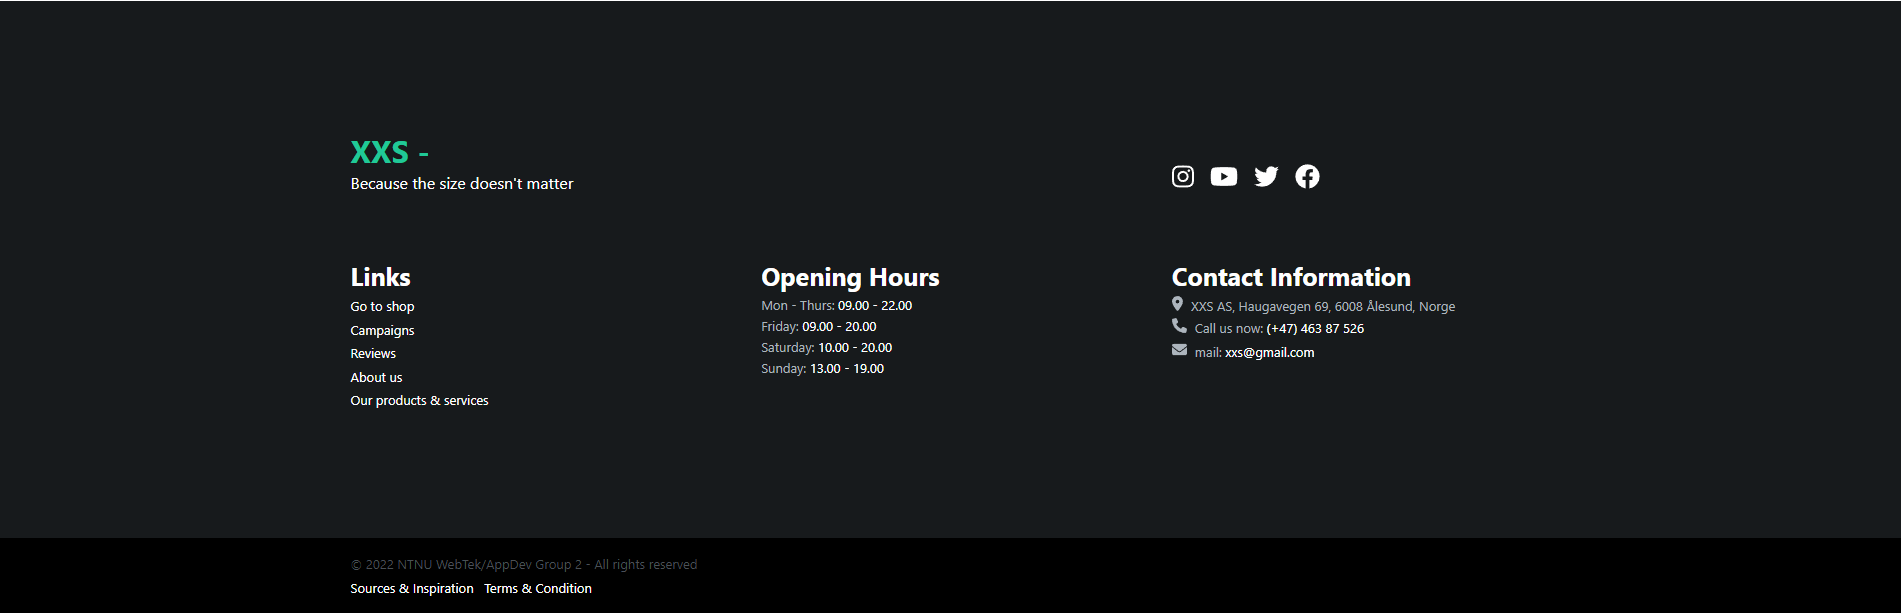
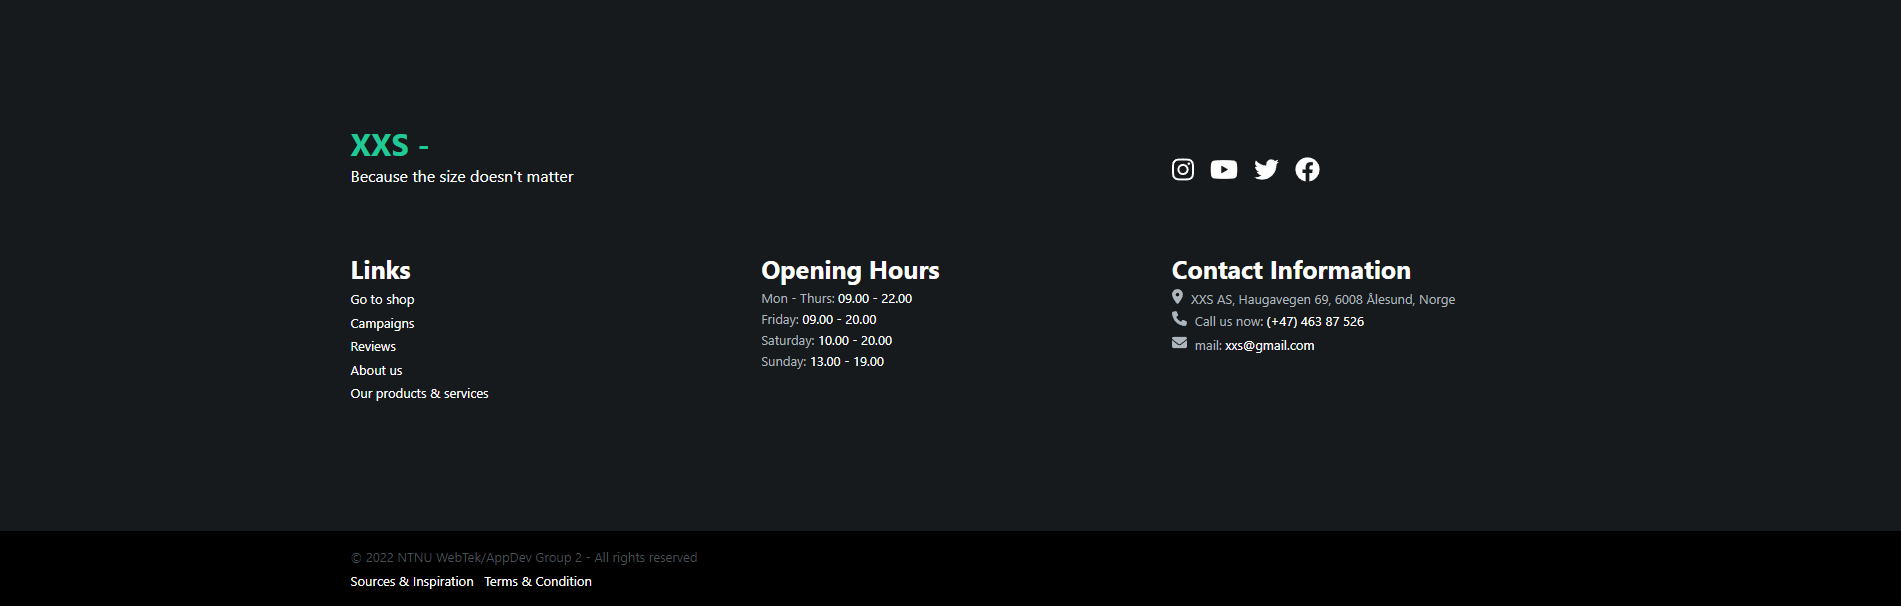
Added information and images to projects

diff --git a/portfolio/src/store/projects.ts b/portfolio/src/store/projects.ts
@@ -5,40 +5,40 @@ export const projects: Project[] = [
 		id: 1,
 		title: 'XXS - Hiking Equipments',
 		thumbnail: {
-			path: '/img/projects/xxs/xxs-thumbnail.png',
+			path: '/img/projects/xxs/xxs-thumbnail-compressed.jpg',
 			alt: 'XXS front page'
 		},
 		images: [
 			{
-				path: '/img/projects/xxs/home-page-hero.png',
+				path: '/img/projects/xxs/home-page-hero-compressed.jpg',
 				alt: 'XXS landing page'
 			},
 			{
-				path: '/img/projects/xxs/home-page-about.PNG',
+				path: '/img/projects/xxs/home-page-about-compressed.jpg',
 				alt: 'About xxs'
 			},
 			{
-				path: '/img/projects/xxs/home-page-reviews.PNG',
+				path: '/img/projects/xxs/home-page-reviews-compressed.jpg',
 				alt: 'Reviews'
 			},
 			{
-				path: '/img/projects/xxs/shop-page.PNG',
+				path: '/img/projects/xxs/shop-page-compressed.jpg',
 				alt: 'Shop page'
 			},
 			{
-				path: '/img/projects/xxs/product-page.PNG',
+				path: '/img/projects/xxs/product-page-compressed.jpg',
 				alt: 'Product page'
 			},
 			{
-				path: '/img/projects/xxs/shopping-cart.PNG',
+				path: '/img/projects/xxs/shopping-cart-compressed.jpg',
 				alt: 'Shopping cart'
 			},
 			{
-				path: '/img/projects/xxs/profile-page.PNG',
+				path: '/img/projects/xxs/profile-page-compressed.jpg',
 				alt: 'Profile page'
 			},
 			{
-				path: '/img/projects/xxs/footer.PNG',
+				path: '/img/projects/xxs/footer-compressed.jpg',
 				alt: 'XXS footer'
 			}
 		],
@@ -84,10 +84,27 @@ export const projects: Project[] = [
 		id: 2,
 		title: 'CryptoYard',
 		thumbnail: {
-			path: '/img/projects/cryptoyard-thumbnail-cropeed.png',
+			path: '/img/projects/cryptoyard/cryptoyard-thumbnail-cropped.png',
 			alt: 'Cryptoyard dashboard'
 		},
-		images: [],
+		images: [
+			{
+				path: '/img/projects/cryptoyard/cryptoyard-dashbord-compressed.jpg',
+				alt: 'Cryptoyard dashboard'
+			},
+			{
+				path: '/img/projects/cryptoyard/signin-page-compressed.jpg',
+				alt: 'Signin page'
+			},
+			{
+				path: '/img/projects/cryptoyard/signup-page-compressed.jpg',
+				alt: 'Signup page'
+			},
+			{
+				path: '/img/projects/cryptoyard/market-compressed.jpg',
+				alt: 'Market place'
+			}
+		],
 		status: 'On-going',
 		stack: ['React', 'Spring-Boot', 'Docker', 'MySQL', 'Apache Kafka', 'Nginx'],
 		contributers: [
@@ -132,16 +149,54 @@ export const projects: Project[] = [
 		],
 		githubLink: 'https://github.com/The-Compilers/CryptoYard',
 		desc: "A small hobby project with some students and teachers from my batchelor degree. The idea is to create a crypto bot, selling and purchasing crypto from the market together with a powerfull UI so the end user can have full control over what's going on.",
-		text: []
+		text: [
+			"To start a little developer community in our class some students together with a teacher started a project, creating a crypto bot. The main purpose is to learn technologies relevant in real-life projects, build a developer's portfolio and have fun socialising with people of same interrested.",
+			'We started with a meating discussing what technologies we where to use for the project and ended up with spring-boot for our backend API, react for our frontend, MySQL for database, apache kafka for message sharing and ngnix as a server proxy.',
+			"So far we have implemented a dashboard where the user should be able to see their watched coins with relevant information. Such as how much they have invested in each coin, the current price etc. We've also implemented login and signup pages for the frontend, but the authentication logic is still to be implemented.",
+			'Come back for more updates 😉'
+		]
 	},
 	{
 		id: 3,
 		title: 'Portfolio',
 		thumbnail: {
-			path: '/img/projects/portfolio-thumbnail-cropped.png',
+			path: '/img/projects/portfolio/portfolio-thumbnail-cropped-compressed.jpg',
 			alt: 'Portfolio front page'
 		},
-		images: [],
+		images: [
+			{
+				path: '/img/projects/portfolio/landing-page-compressed.jpg',
+				alt: 'Portfolio landing page'
+			},
+			{
+				path: '/img/projects/portfolio/about-compressed.jpg',
+				alt: 'About section'
+			},
+			{
+				path: '/img/projects/portfolio/technologies-compressed.jpg',
+				alt: 'Technology cards'
+			},
+			{
+				path: '/img/projects/portfolio/projects-compressed.jpg',
+				alt: 'Projects list'
+			},
+			{
+				path: '/img/projects/portfolio/project-top-compressed.jpg',
+				alt: 'Specific project landing page'
+			},
+			{
+				path: '/img/projects/portfolio/project-body-compressed.jpg',
+				alt: 'Content of specific project'
+			},
+			{
+				path: '/img/projects/portfolio/resume-compressed.jpg',
+				alt: 'Resume'
+			},
+			{
+				path: '/img/projects/portfolio/footer-compressed.jpg',
+				alt: 'Portfolio footer'
+			}
+		],
 		status: 'On-going',
 		stack: ['SvelteKit', 'Cypress', 'TypeScript', 'Sass'],
 		contributers: [
@@ -153,6 +208,13 @@ export const projects: Project[] = [
 		features: ['Server-side rendering', 'On load and scroll animations', 'Data prefecting'],
 		githubLink: 'https://github.com/jKm00/Personal-website',
 		desc: 'This is the project you are currently visiting. Wanted to try out and learn some new technologies as well as I needed a portfolio to get my name out there. Since this was a solo project I could select the exact technologies I was most interrested in and learned a lot along the way. Such as end-to-end testing, github actions and server-side vs client-side rendering. Had a tun of fun with this project.',
-		text: []
+		text: [
+			'My portfolio was a small personal project I started, that only I have worked on. The result is the website you are currently visiting.',
+			'Because I was the only person involved in this project, I had the full freedom to choose wathever technologies I wanted. When deciding, I recently had some experience with both React and Vue. But I had also recently heard a lot about Svelte and SvelteKit. For me it seemed so simple and elegant and I wanted to try it out for myself. Thats the main reason why this website is build using SvelteKit.',
+			"I also wanted to learn more about testing, continuous integration and continuous delivery. Cypress was a tool I had just heard about and started looking more into. I decided to use it for testing in this project, and have not regretted it. Together with cypress I also looked into and added piplines/actions to my GitHub. So whenever I pushed some new code to the repository, it automatically get's build, tested and then published if every test are passed.",
+			'The hardest task for this project was probably to come up with a design I was happy with. I wanted something that I was genuenlly happy with and something that fit me as well as it was easy to understand and use. My first version looked OK+, but it had some flaws. Specially for readability. Some of the fonts were very thin and the contrasts between the background and forground made it a little to hard to read.',
+			'I completely redesigned the whole page for version 2.0. This is the current design used today. Although I was happy with the first outcome, there was a lot of tweeking throughout the process.',
+			"I'm really happy with the result of the current version. But I also think this is a project I will continue developing as I get new ideas for things I want to add."
+		]
 	}
 ];

diff --git a/documentation/docs/projects.md b/documentation/docs/projects.md
@@ -35,7 +35,7 @@ As this was quite a large project, we had to work in group. Both to distribute t
 
 The beginning was a lot of planning. Creating wireframes, sketching the design of the database, creating a design guideline etc. We had many team meatings a this point to share and discuss different opinions and options until we were satisfied.
 
-Spring boot was taught in the application coures, so this was the framework we desided to use for our API. As for the frontend, HTML, CSS and JavaScript was taught in the web technologies course, but our group desided to use React as our frontend framework as some members already had some experience with it. For our database we used PostgreSQL as again, member of the group had experience with it. At the very end of the project we also desided that we were to dockerize our app, to make it easier for production.
+Spring boot was taught in the application coures, so this was the framework we decided to use for our API. As for the frontend, HTML, CSS and JavaScript was taught in the web technologies course, but our group decided to use React as our frontend framework as some members already had some experience with it. For our database we used PostgreSQL as again, member of the group had experience with it. At the very end of the project we also decided that we were to dockerize our app, to make it easier for production.
 
 Throughout the development github was actively used. Every meating, we discussed things that needed to be implemented and/or changed and filed it as github issues. With this, it was easy for a single member to pick an issue from the issue list, work with it on a new branch, and then merge it back into the main branch with a simple pull request. This also made it possible to add code review to our workflow. Both to make sure the implemented was ok, but also so members that didn't implement sertain features could understand it by looking through it when it was finished and approve it.
 
@@ -71,7 +71,13 @@ A small hobby project with some students and teachers from my batchelor degree. 
 
 ### Long description
 
-TBC
+To start a little developer community in our class some students together with a teacher started a project, creating a crypto bot. The main purpose is to learn technologies relevant in real-life projects, build a developer's portfolio and have fun socialising with people of same interrested.
+
+We started with a meating discussing what technologies we where to use for the project and ended up with spring-boot for our backend API, react for our frontend, MySQL for database, apache kafka for message sharing and ngnix as a server proxy.
+
+So far we have implemented a dashboard where the user should be able to see their watched coins with relevant information. Such as how much they have invested in each coin, the current price etc. We've also implemented login and signup pages for the frontend, but the authentication logic is still to be implemented.
+
+Come back for more updates 😉
 
 ## Portfolio
 
@@ -95,7 +101,17 @@ This is the project you are currently visiting. Wanted to try out and learn some
 
 ### Long description
 
-TBC
+My portfolio was a small personal project I started, that only I have worked on. The result is the website you are currently visiting.
+
+Because I was the only person involved in this project, I had the full freedom to choose wathever technologies I wanted. When deciding, I recently had some experience with both React and Vue. But I had also recently heard a lot about Svelte and SvelteKit. For me it seemed so simple and elegant and I wanted to try it out for myself. Thats the main reason why this website is build using SvelteKit.
+
+I also wanted to learn more about testing, continuous integration and continuous delivery. Cypress was a tool I had just heard about and started looking more into. I decided to use it for testing in this project, and have not regretted it. Together with cypress I also looked into and added piplines/actions to my GitHub. So whenever I pushed some new code to the repository, it automatically get's build, tested and then published if every test are passed.
+
+The hardest task for this project was probably to come up with a design I was happy with. I wanted something that I was genuenlly happy with and something that fit me as well as it was easy to understand and use. My first version looked OK+, but it had some flaws. Specially for readability. Some of the fonts were very thin and the contrasts between the background and forground made it a little to hard to read.
+
+I completely redesigned the whole page for version 2.0. This is the current design used today. Although I was happy with the first outcome, there was a lot of tweeking throughout the process.
+
+I'm really happy with the result of the current version. But I also think this is a project I will continue developing as I get new ideas for things I want to add.
 
 # Inspiration
 
